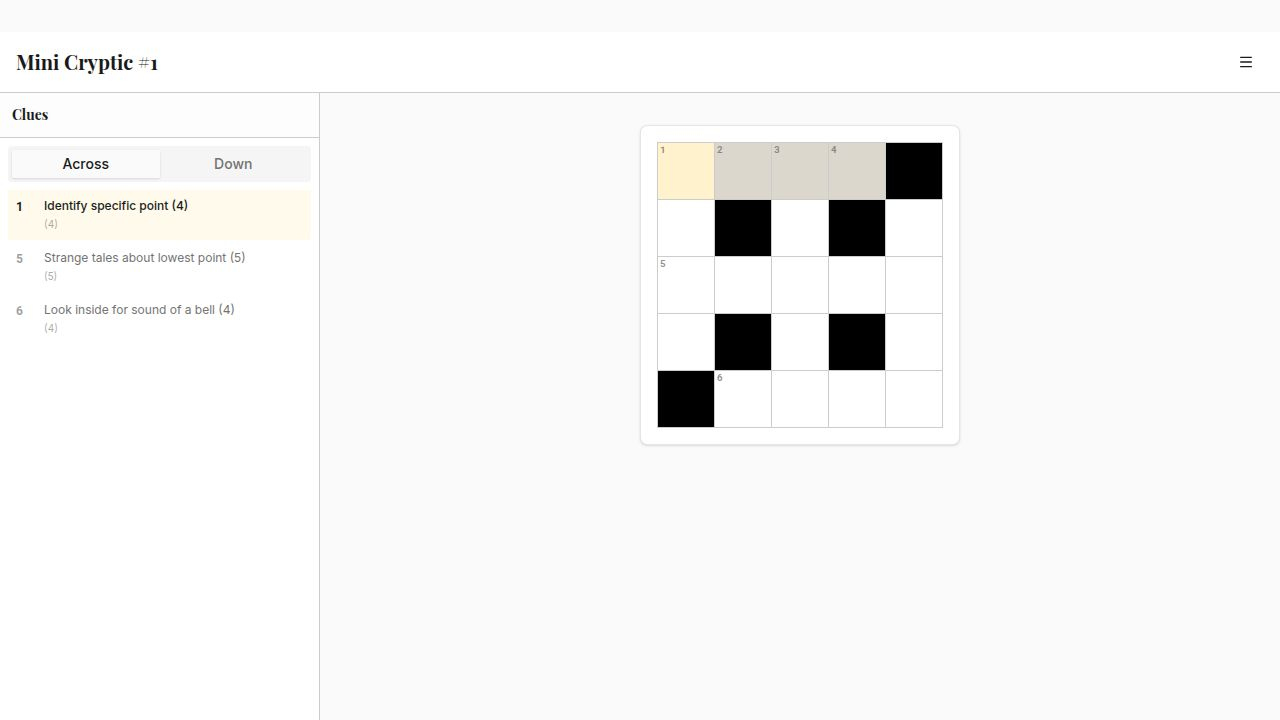
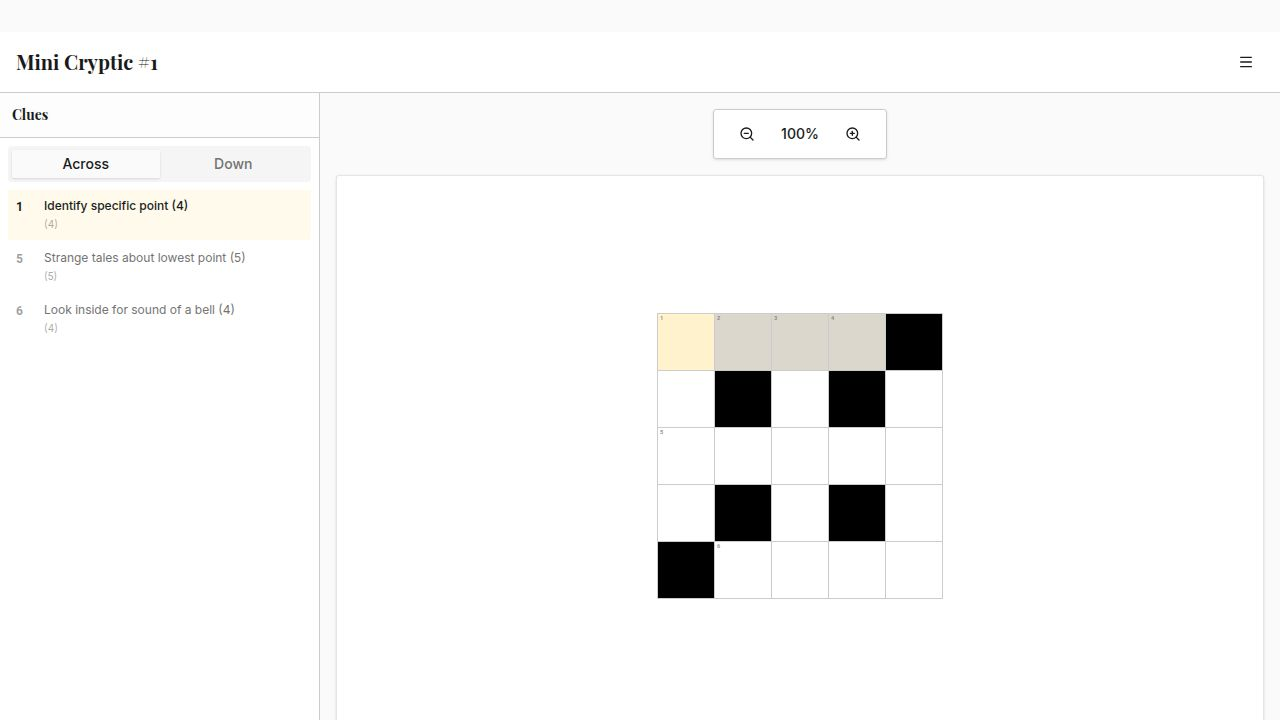
Remove visual borders that appear as grey lines in the grid
Remove conditional rendering of right and bottom word boundary borders from grid cells in Crossword.tsx.

Replit-Commit-Author: Agent
Replit-Commit-Session-Id: 9094472f-ff13-4697-88fc-1f45c0840a27
Replit-Commit-Checkpoint-Type: full_checkpoint
Replit-Commit-Event-Id: f05dc852-0eb2-4c1f-959d-070753a9dd84
Replit-Commit-Screenshot-Url: https://storage.googleapis.com/screenshot-production-us-central1/548e77fa-a20f-45e9-afc6-72a93495c49a/9094472f-ff13-4697-88fc-1f45c0840a27/fjTdj0L
Replit-Helium-Checkpoint-Created: true

Changed region(s): [[0.5, 0.4278, 0.75, 0.6111], [0.5, 0.1528, 0.75, 0.3667], [0.5, 0.6722, 0.7188, 0.8556]]

diff --git a/client/src/components/Crossword.tsx b/client/src/components/Crossword.tsx
@@ -670,9 +670,7 @@ export default function Crossword({ initialPuzzle }: CrosswordProps) {
                                         isBlack ? "bg-black" : "bg-white",
                                         isActive ? "bg-accent text-accent-foreground z-10" : "",
                                         !isActive && isInClue ? "bg-accent/30" : "",
-                                        isError ? "text-destructive bg-destructive/10" : "",
-                                        boundary?.right ? "border-r-4 border-r-border/80" : "",
-                                        boundary?.bottom ? "border-b-4 border-b-border/80" : ""
+                                        isError ? "text-destructive bg-destructive/10" : ""
                                     )}
                                     style={{ fontSize: `${1.5 * zoom}rem` }}
                                 >
